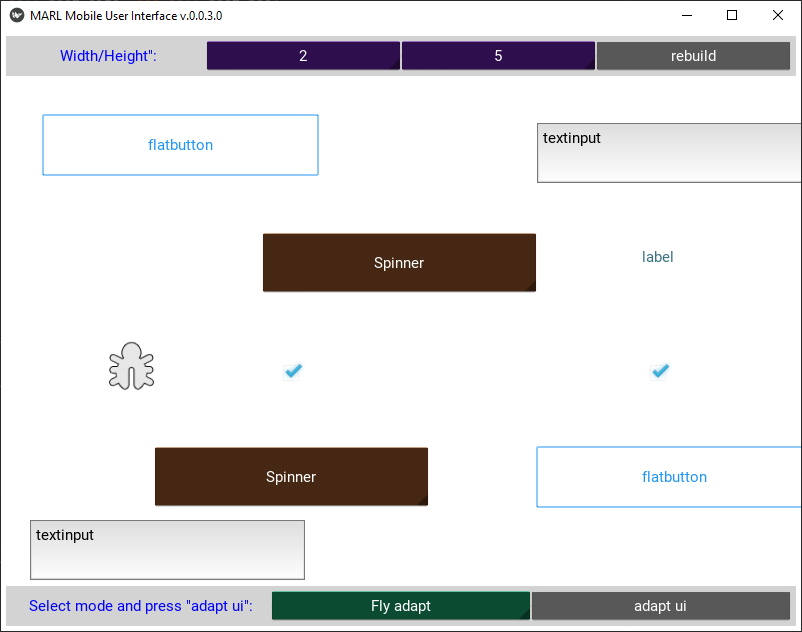
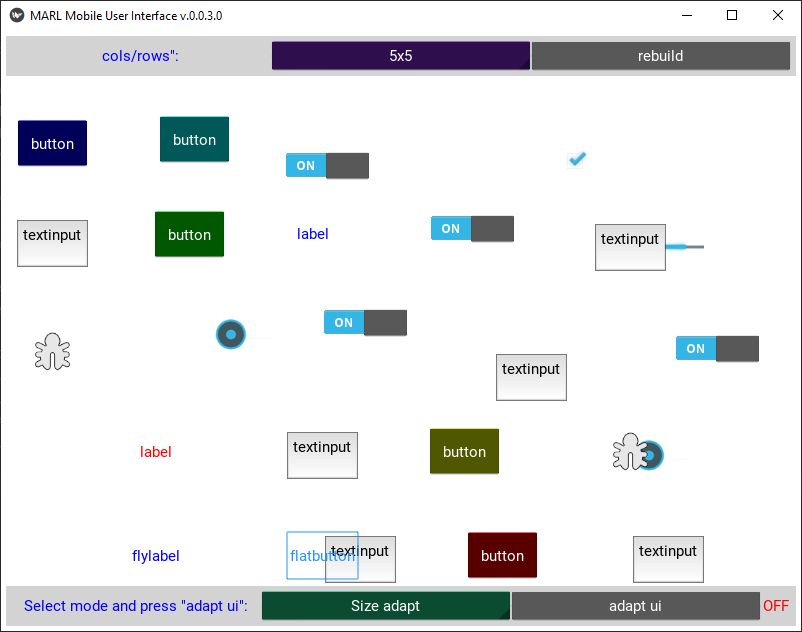
v3 'Fly+Size adapt' added

diff --git a/kivywidgets.py b/kivywidgets.py
@@ -61,7 +61,7 @@ class FlyScatterV3(Scatter):#TouchRippleBehavior, Scatter):
 
     def update_pos(self, *args):
         parent = self
-        if self.mode == 'Fly adapt':
+        if self.mode == 'Fly adapt' or self.mode == 'Fly+Size adapt':
             parent.x += self.deltaposxy*self.velocity[0]
             parent.y += self.deltaposxy*self.velocity[1]
             if parent.x < 0 or (parent.x + 2*parent.width//3) > Window.width:
@@ -69,7 +69,7 @@ class FlyScatterV3(Scatter):#TouchRippleBehavior, Scatter):
             if parent.y < 0 or (parent.y + 2*parent.height//3) > Window.height:
                 self.velocity[1] *= -1
             # parent.pos = [parent.x, parent.y]
-        elif self.mode == 'Size adapt':
+        if self.mode == 'Size adapt' or self.mode == 'Fly+Size adapt':
             w = parent.children[0].width
             h = parent.children[0].height
             if self.raw_width == 0: self.raw_width = w
@@ -80,7 +80,6 @@ class FlyScatterV3(Scatter):#TouchRippleBehavior, Scatter):
             elif h > self.raw_height: self.reduceH = -1
             parent.children[0].width = w + self.reduceW
             parent.children[0].height = h + self.reduceH
-            # parent.size = [w, h]
 
     def change_emulation(self):
         self.emulation = self.set_emulation(True) if not(self.emulation) else self.set_emulation(False)

diff --git a/main3.py b/main3.py
@@ -27,7 +27,7 @@ class MainApp(App):
         super(MainApp, self).__init__(**kwargs)
         self.title = 'MARL Mobile User Interface v.'+__version__
         self.text_color = MyColors.get_textcolor(WhiteBackColor)
-        self.modes = ('Fly adapt', 'Size adapt', 'MARL adapt', 'GAN adapt')
+        self.modes = ('Fly adapt', 'Size adapt', 'Fly+Size adapt','MARL adapt', 'GAN adapt')
         self.cols_rows = ("1х1", "2х2", "3х3", "4х4", "5х5", "6х6")
 
     def build(self):
